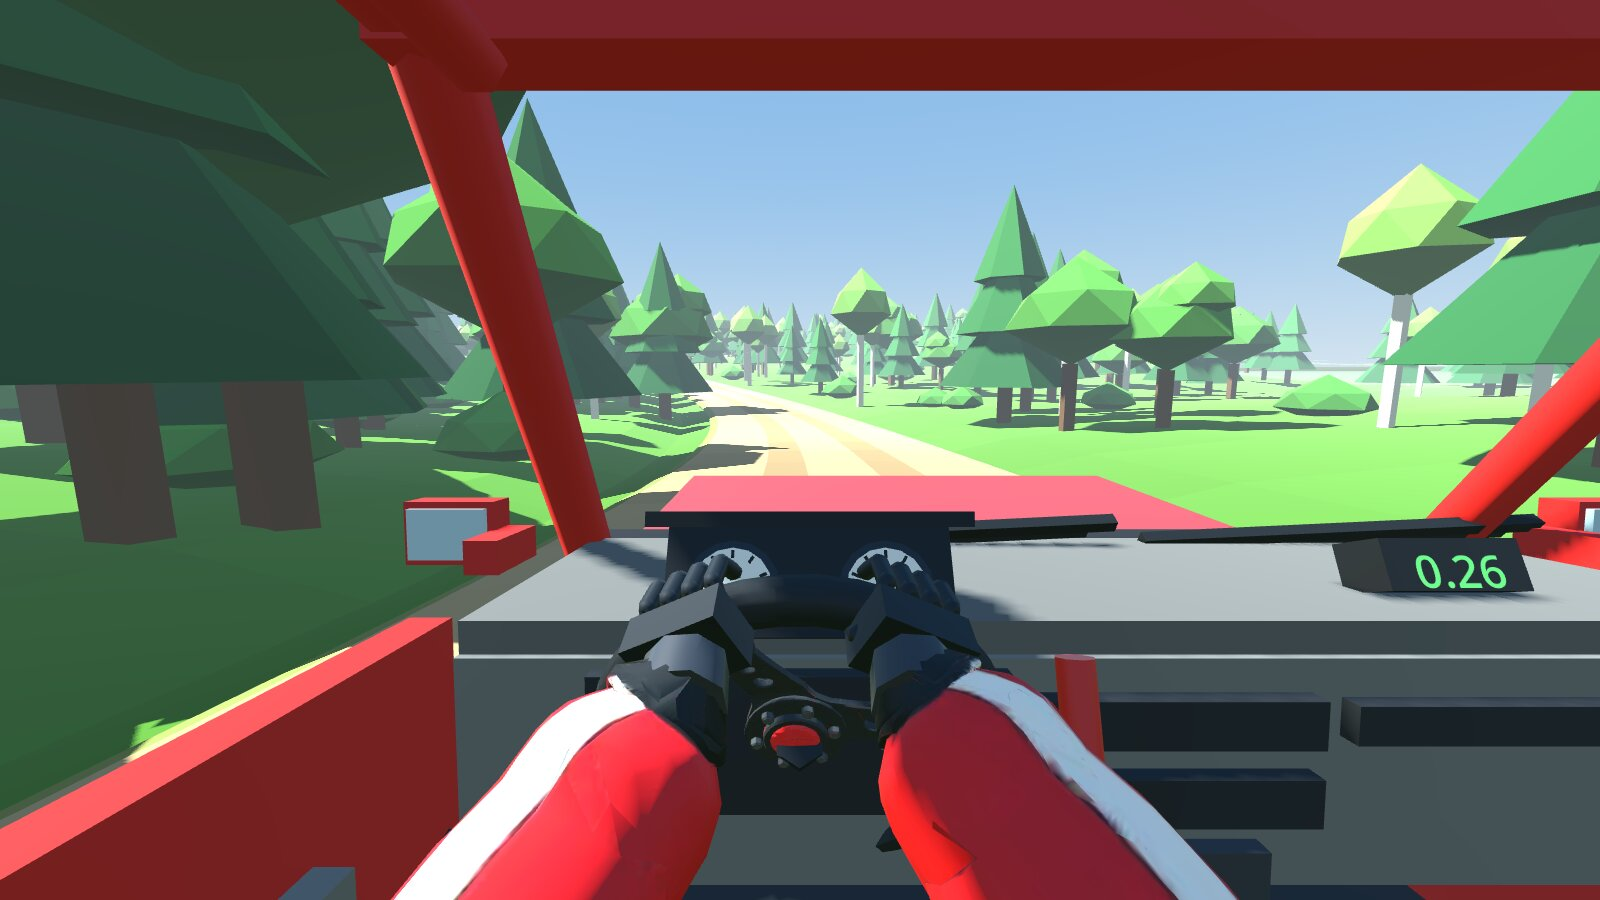
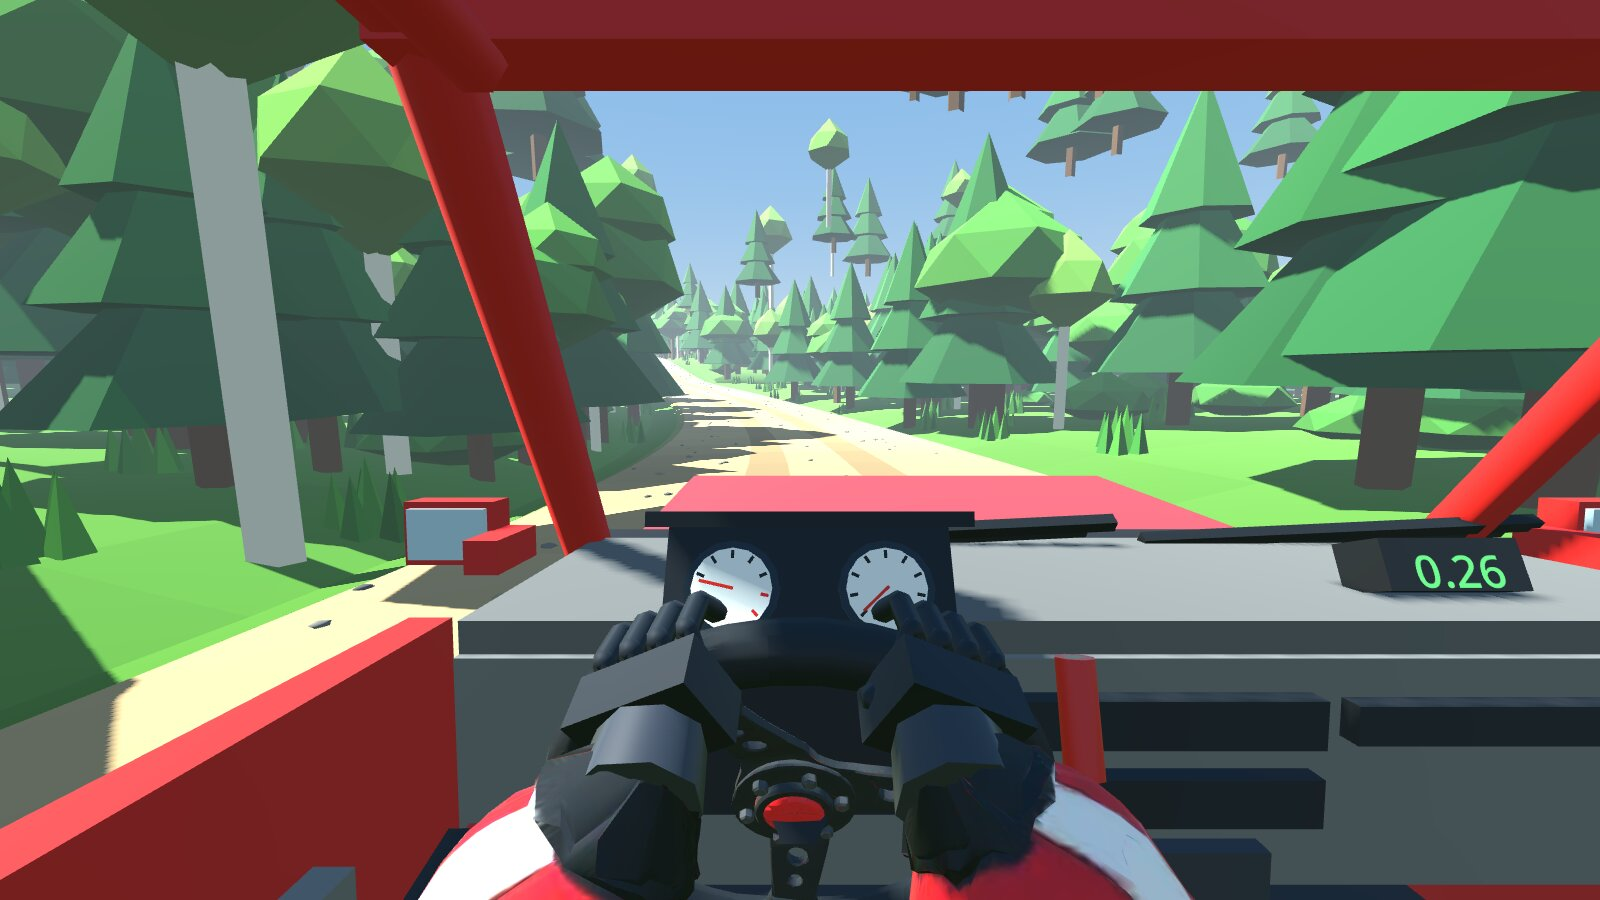
SHOTGUN RALLY: mud splats, steering wheel clear of the dash, a much fuller forest
- mud: cartoon splats instead of an even brown layer - a big one right where
  the driver looks at the road, 3-7 more across the glass (more the harder
  the hit), lumpy outlines with spikes, flicked droplets, drips that slowly
  run down, a dark rim and a wet highlight; the wipers leave soft smears; the
  same seed makes the same splats on both machines
- steering wheel: 10 cm nearer the driver (WHEEL_C z -0.27 -> -0.17): the rim
  went through the dash face, the instrument hood and the binnacle; now ~4 cm
  clear of all of them, and lower in view (below the windshield's bottom edge)
- forest: ~30,000 trees a stage (was ~10,000): a thicker wall along the road,
  denser bands behind, a far belt out to 150 m on extended ground (no shadows,
  drawn within 340 m: the fog has the rest), ferns along the verges; trees a
  little bigger; the stage still builds in ~0.7 s
- network: a car no longer streams until the game says both machines have
  loaded (stream_ok defaulted to on, so a car still being built could talk to
  a machine with no Car yet: "Node not found: Main/Game/Car"), and before a
  reload the host pauses the stream for 0.3 s so the last packets land first
- README + screenshots (driver view, mud, chase)

Claude-Session: https://claude.ai/code/session_01NXYqac7qKp55iHA8gZ85EC

diff --git a/shotgun-rally/README.md b/shotgun-rally/README.md
@@ -67,7 +67,7 @@ Free, PC only (Windows, Mac, Linux). Built in **Godot 4.7**, like BAGHOLDERS.
    in your seat for the 5-second countdown: **five start lights** on screen and a start clock on each
    side of the road. Moving off early is a **jump start: +10 s**. The stage clock (and any penalties)
    stays at the top of the screen.
-2. **The stage** is ~2.7 km of gravel through thick forest (~10,000 trees): corners graded 6 (nearly flat) to 1 (very slow) plus
+2. **The stage** is ~2.7 km of gravel through thick forest (~30,000 trees, ferns along the verges, a far belt out to 150 m): corners graded 6 (nearly flat) to 1 (very slow) plus
    hairpins, corners that tighten or open, blind crests, jumps, puddles and rocks on the inside of the
    "don't cut" corners. Every stage is generated from a number, so there's always a new one.
    - **Jumps, Finland style** (modelled on WRC Rally Finland footage): on the long straights, a gentle
@@ -83,8 +83,10 @@ Free, PC only (Windows, Mac, Linux). Built in **Godot 4.7**, like BAGHOLDERS.
 3. **The map board** (our own design, not the reference's tablet) shows **only the map and where you
    are**: the road ahead as a line, heading-up like a GPS, ~300 m of it, with the stopwatch clipped on
    top. No grades, no warnings: reading the road and calling it is the co-driver's job.
-4. **Mud:** a puddle at speed covers the **whole windshield**. The wipers clear their two arcs, a bit
-   more each stroke (it takes about two to see properly), and the corners stay dirty.
+4. **Mud:** a puddle at speed throws cartoon mud splats over the windshield: a big one right where
+   the driver looks at the road, more across the glass the harder the hit, flicked droplets, and
+   drips that slowly run down. The wipers smear through their two arcs (it takes about two strokes
+   to see properly) and the corners stay dirty.
 5. Stuck? **R** puts the car back on the road (**+5 s**). Driver: **C** swaps to a chase camera
    behind the car (the co-driver stays in their seat).
 6. **Flying finish**, results (the camera circles the car again), then the host picks: next stage,
